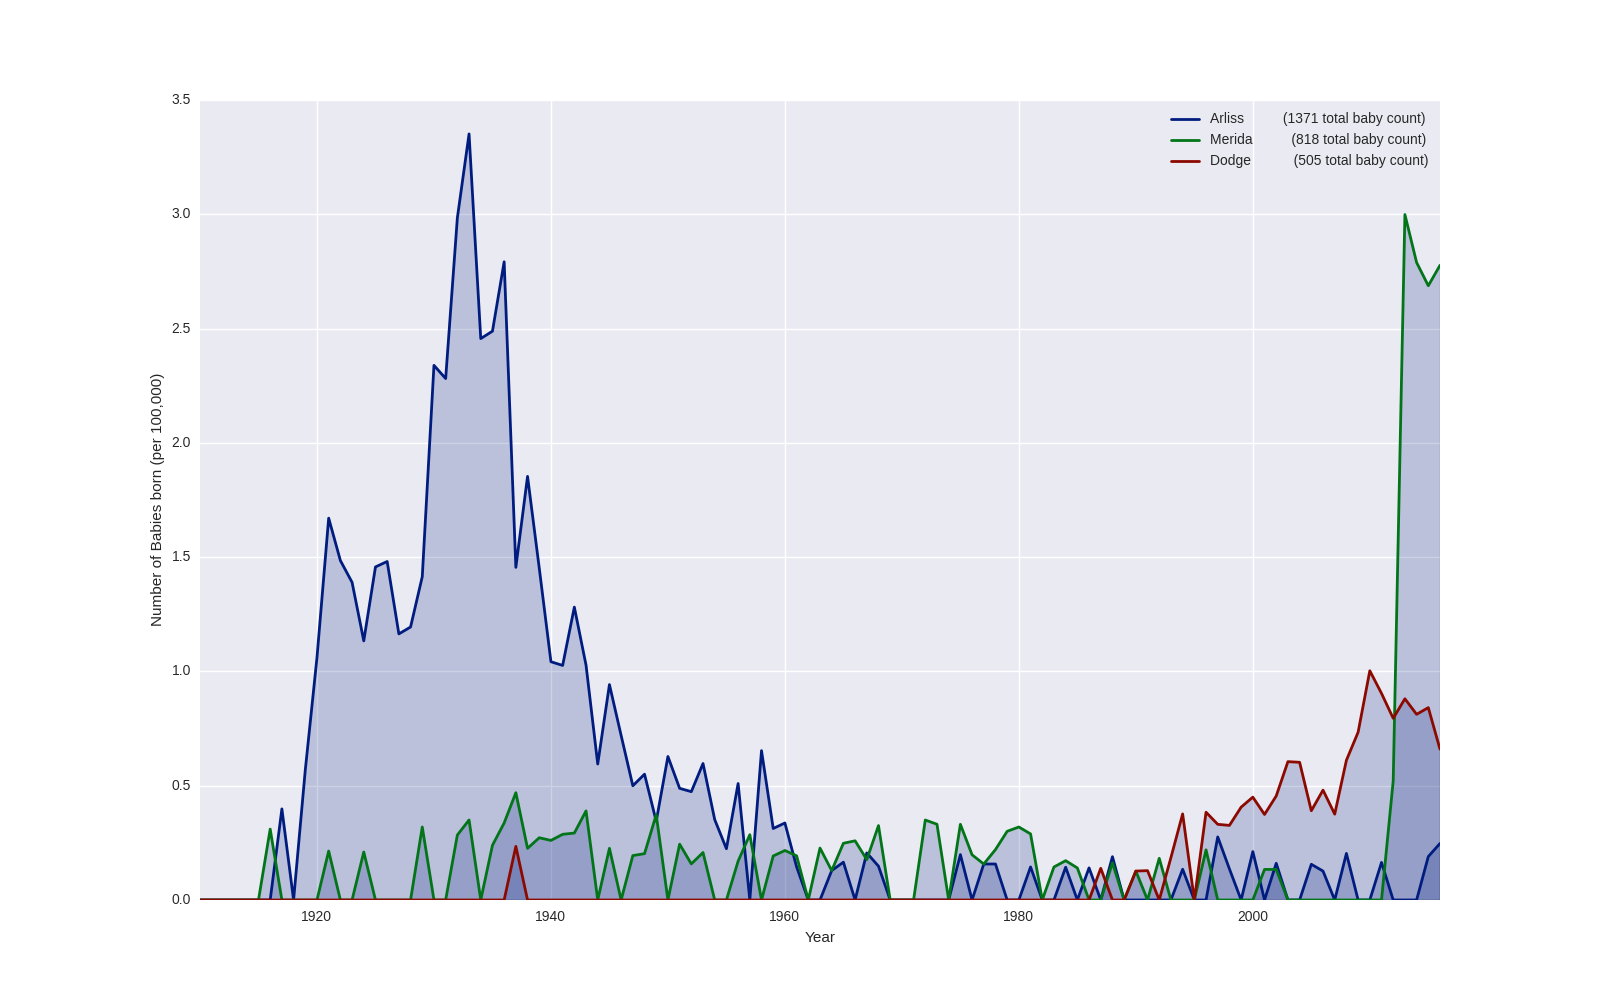
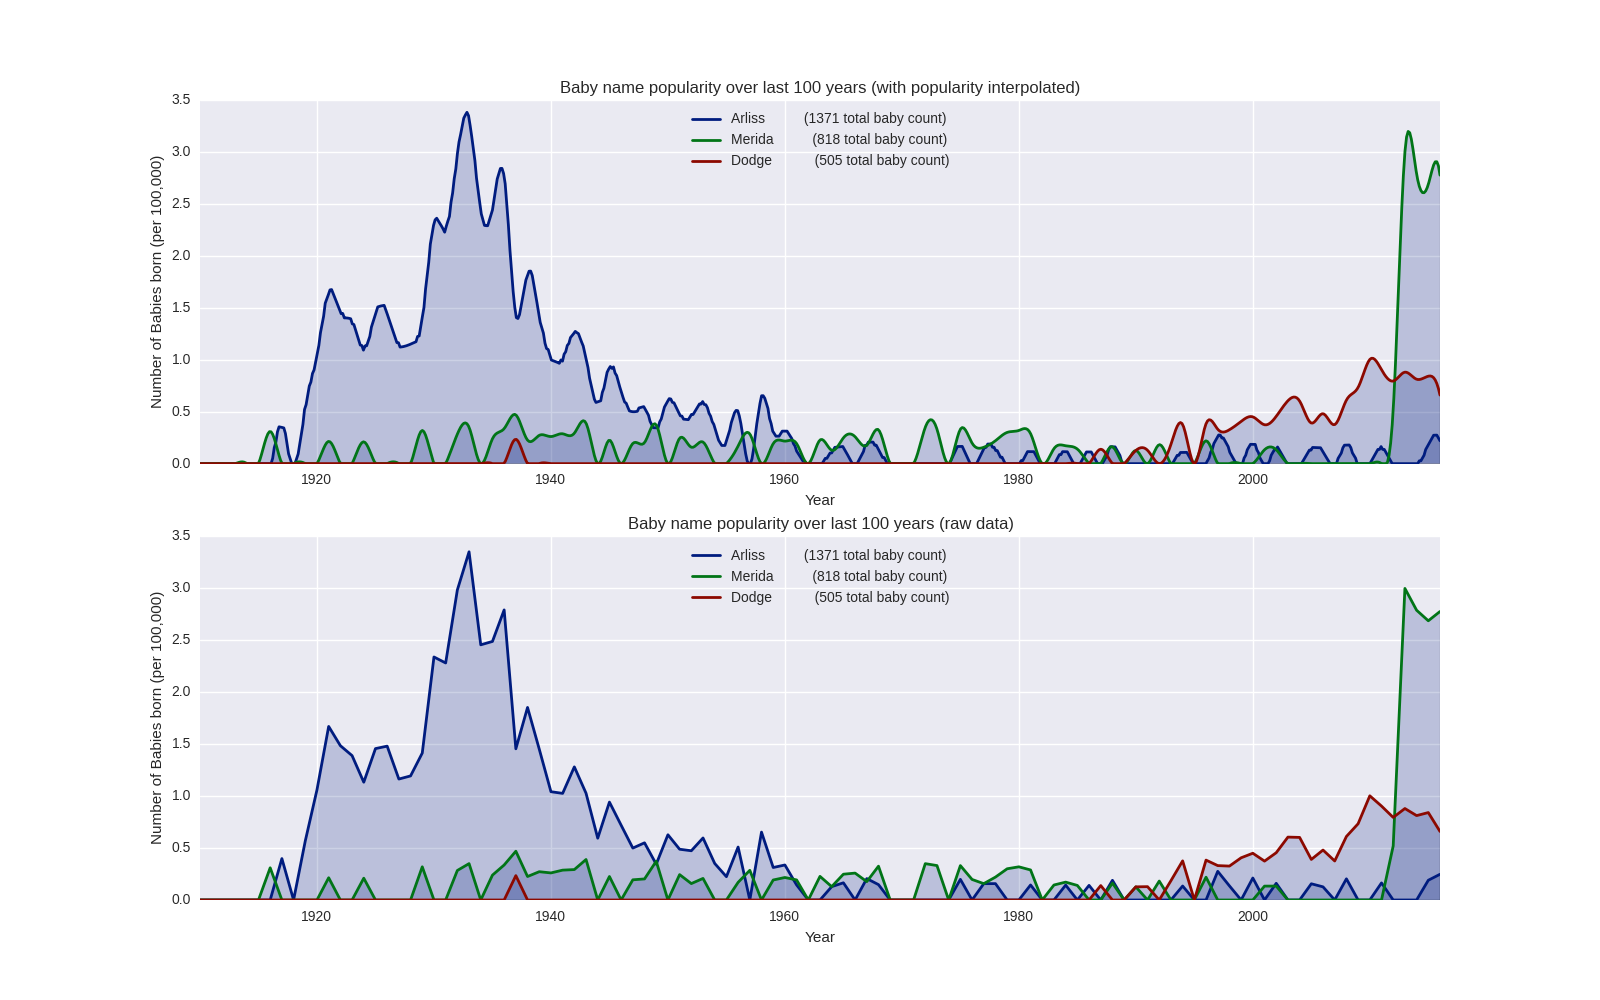
Add interpolated results

diff --git a/names.py b/names.py
@@ -1,10 +1,12 @@
 from __future__ import print_function
 
+import os
+import re
+
 import pandas as pd
 import seaborn as sns
 import numpy as np
-import os
-import re
+from scipy.interpolate import spline
 from pylab import rcParams
 
 YEAR_REG = re.compile("yob([0-9]+)\.txt")
@@ -36,24 +38,53 @@ data = pd.DataFrame(map(grab_names, files),
                     columns=NAMES+["total", "year"]).set_index(
                         "year").sort_index()
 
-def plot_names(name):
-    values = data[name]/data.total*100000 # percentage of population
+def plot_names(name, smooth=True):
+    """
+    Plot the names defined in NAMES. Interpolates by default with argument
+    smooth.
+    """
+    name_data = data[name]
+    index = data.index
+    total_data = data.total
+    if smooth:
+        # interpolate
+        new_index = np.linspace(index.min(), index.max(), 1000)
+        name_data = spline(index, name_data, new_index)
+        flatten = np.vectorize(lambda x: 0 if x <= 0 else x)
+        name_data = flatten(name_data)
+        total_data = spline(index, total_data, new_index)
+        index = new_index
+    values = name_data/total_data*100000 # percentage of population
     name_label = "{}\t\t({} total baby count)".format(name, data[name].sum()).expandtabs()
-    ax = plt.plot(data.index, values, lw=2, label=name_label)
-    plt.fill_between(data.index, 0, values, alpha =0.2)
+    ax = plt.plot(index, values, lw=2, label=name_label)
+    plt.fill_between(index, 0, values, alpha =0.2)
     return ax
 
 plt.clf()
-
 rcParams['figure.figsize'] = 16, 10
 sns.set_style("darkgrid")
 sns.set_palette(sns.color_palette("dark"))
+
+plt.figure(1)
+plt.subplot(211)
 map(plot_names, NAMES)
+plt.xlim((1910, 2016))
+plt.legend(loc="upper mid")
+plt.title("Baby name popularity over last 100 years (with popularity interpolated)")
+plt.ylabel("Number of Babies born (per 100,000)")
+plt.xlabel("Year")
+
+plt.figure(1)
+plt.subplot(212)
+map(lambda x: plot_names(x, smooth=False), NAMES)
+plt.title("Baby name popularity over last 100 years (raw data)")
 plt.legend(loc="upper mid")
 plt.ylabel("Number of Babies born (per 100,000)")
 plt.xlabel("Year")
 plt.xlim((1910, 2016))
-# plt.show()
+
+plt.show()
+
 plt.savefig("MeridaArlissDodge.png")
 
 # Total count of "Merida" if the movie "Brave" hadn't been made: ~402
